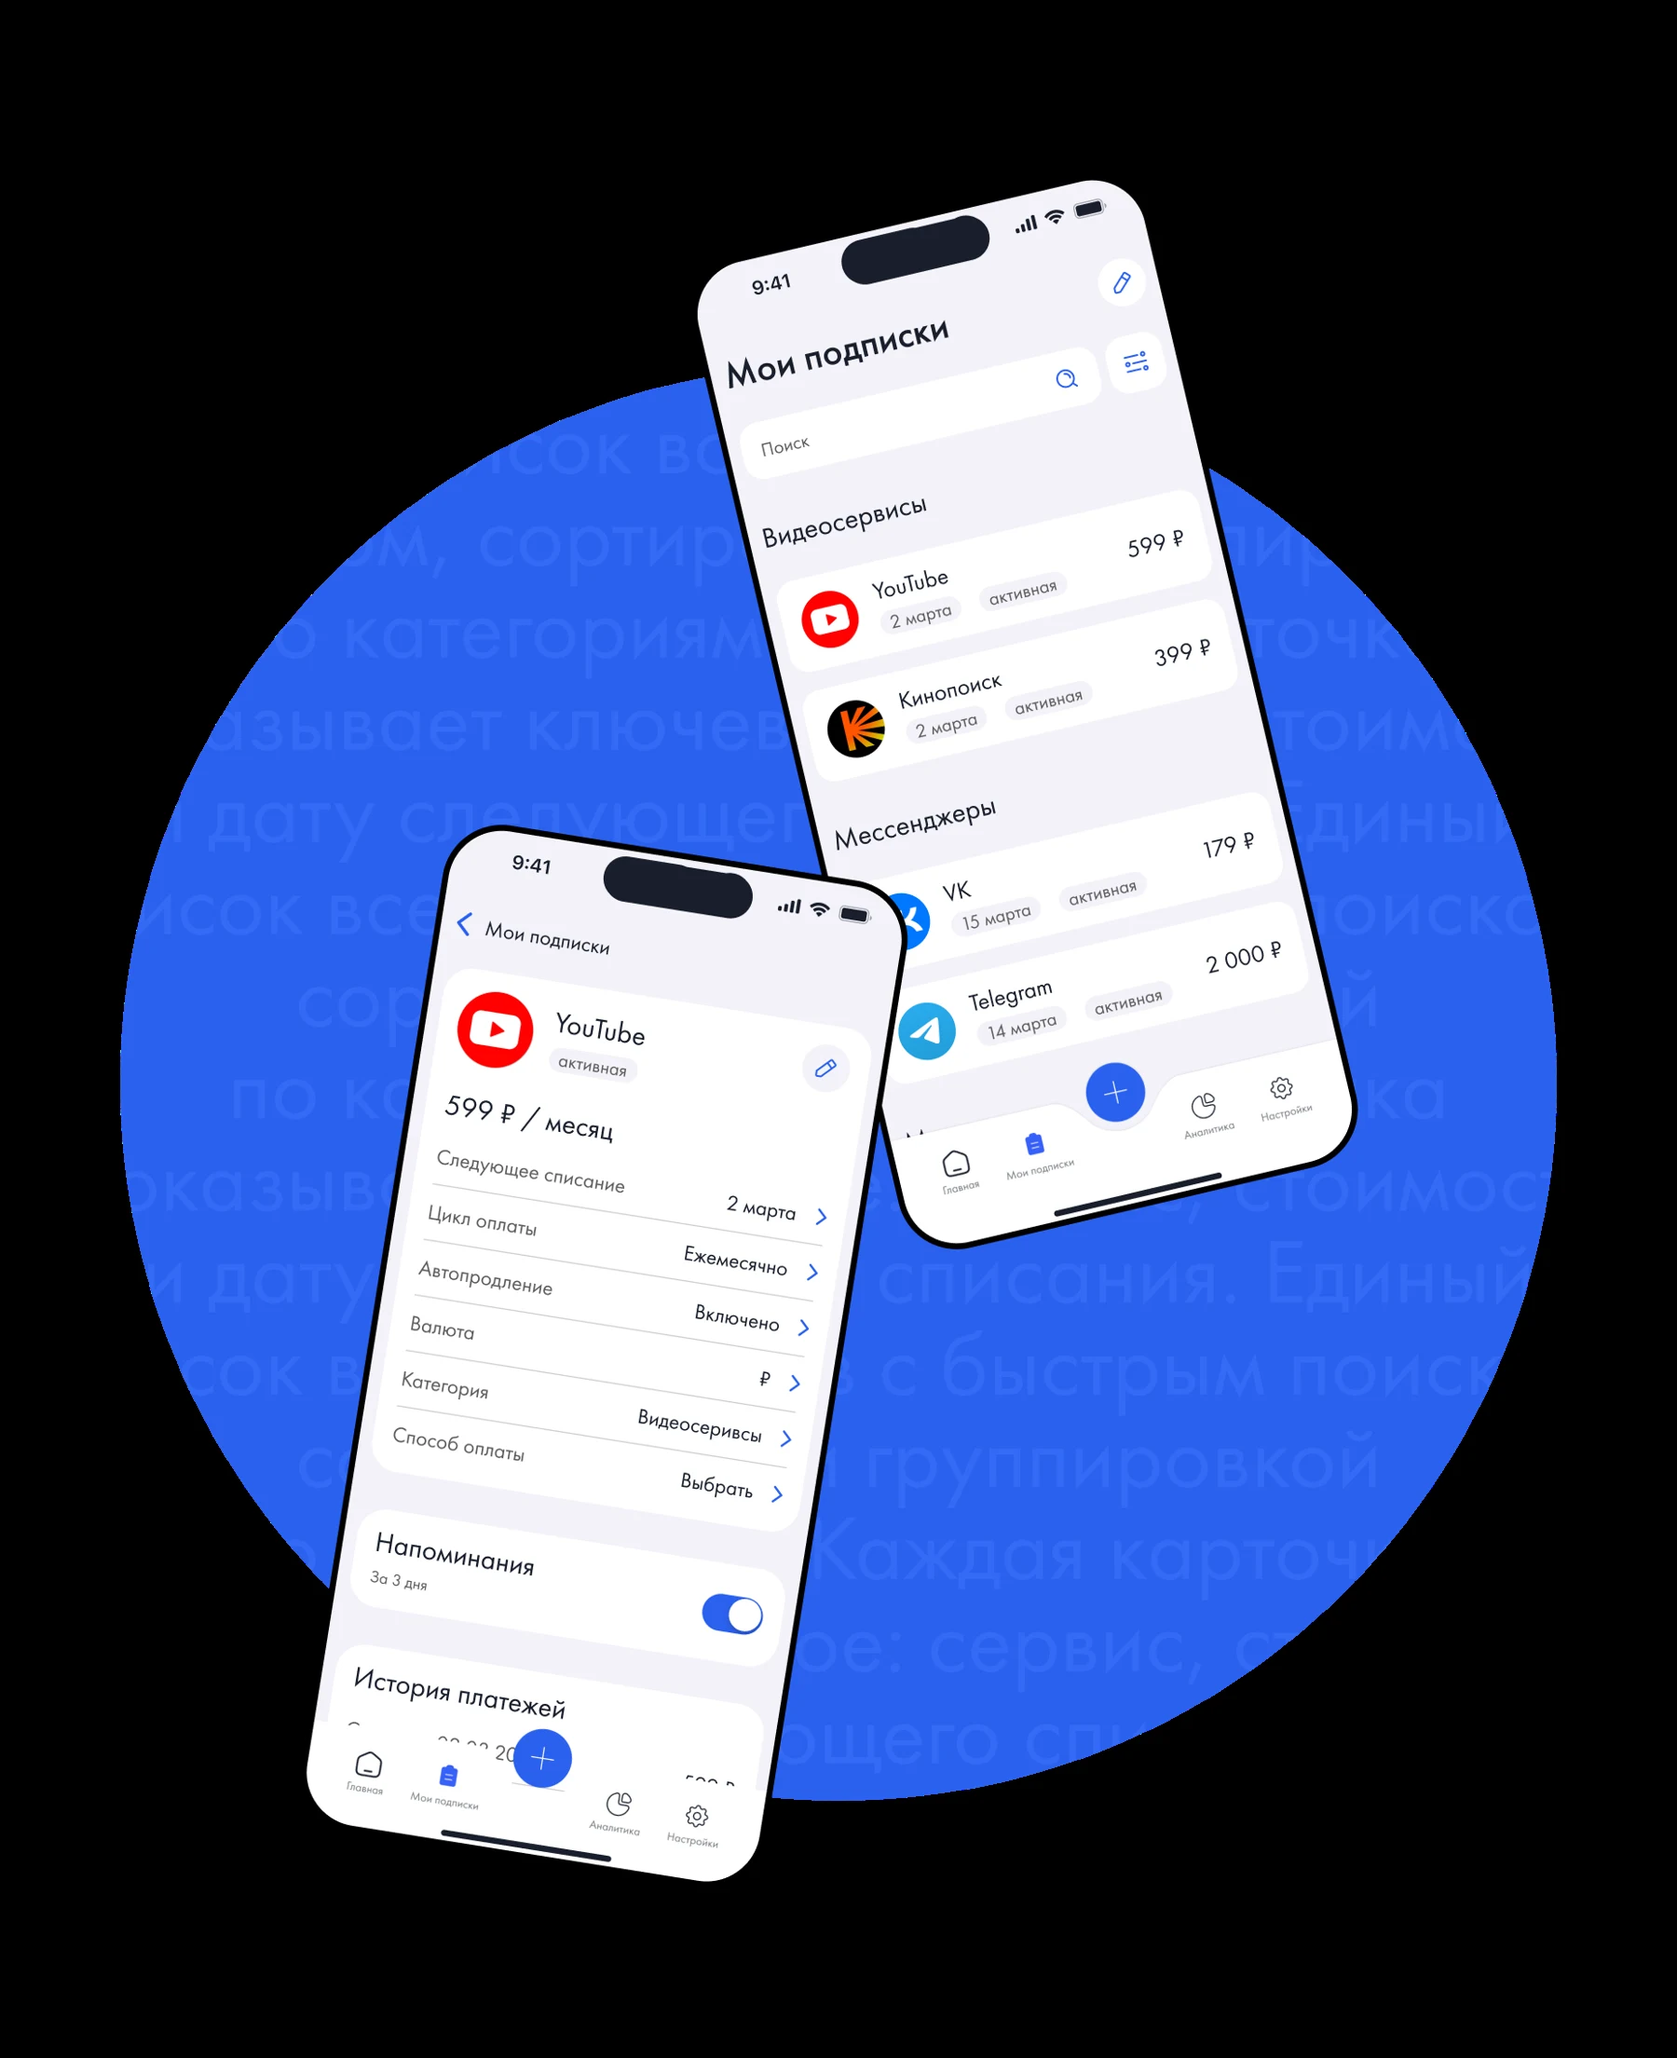
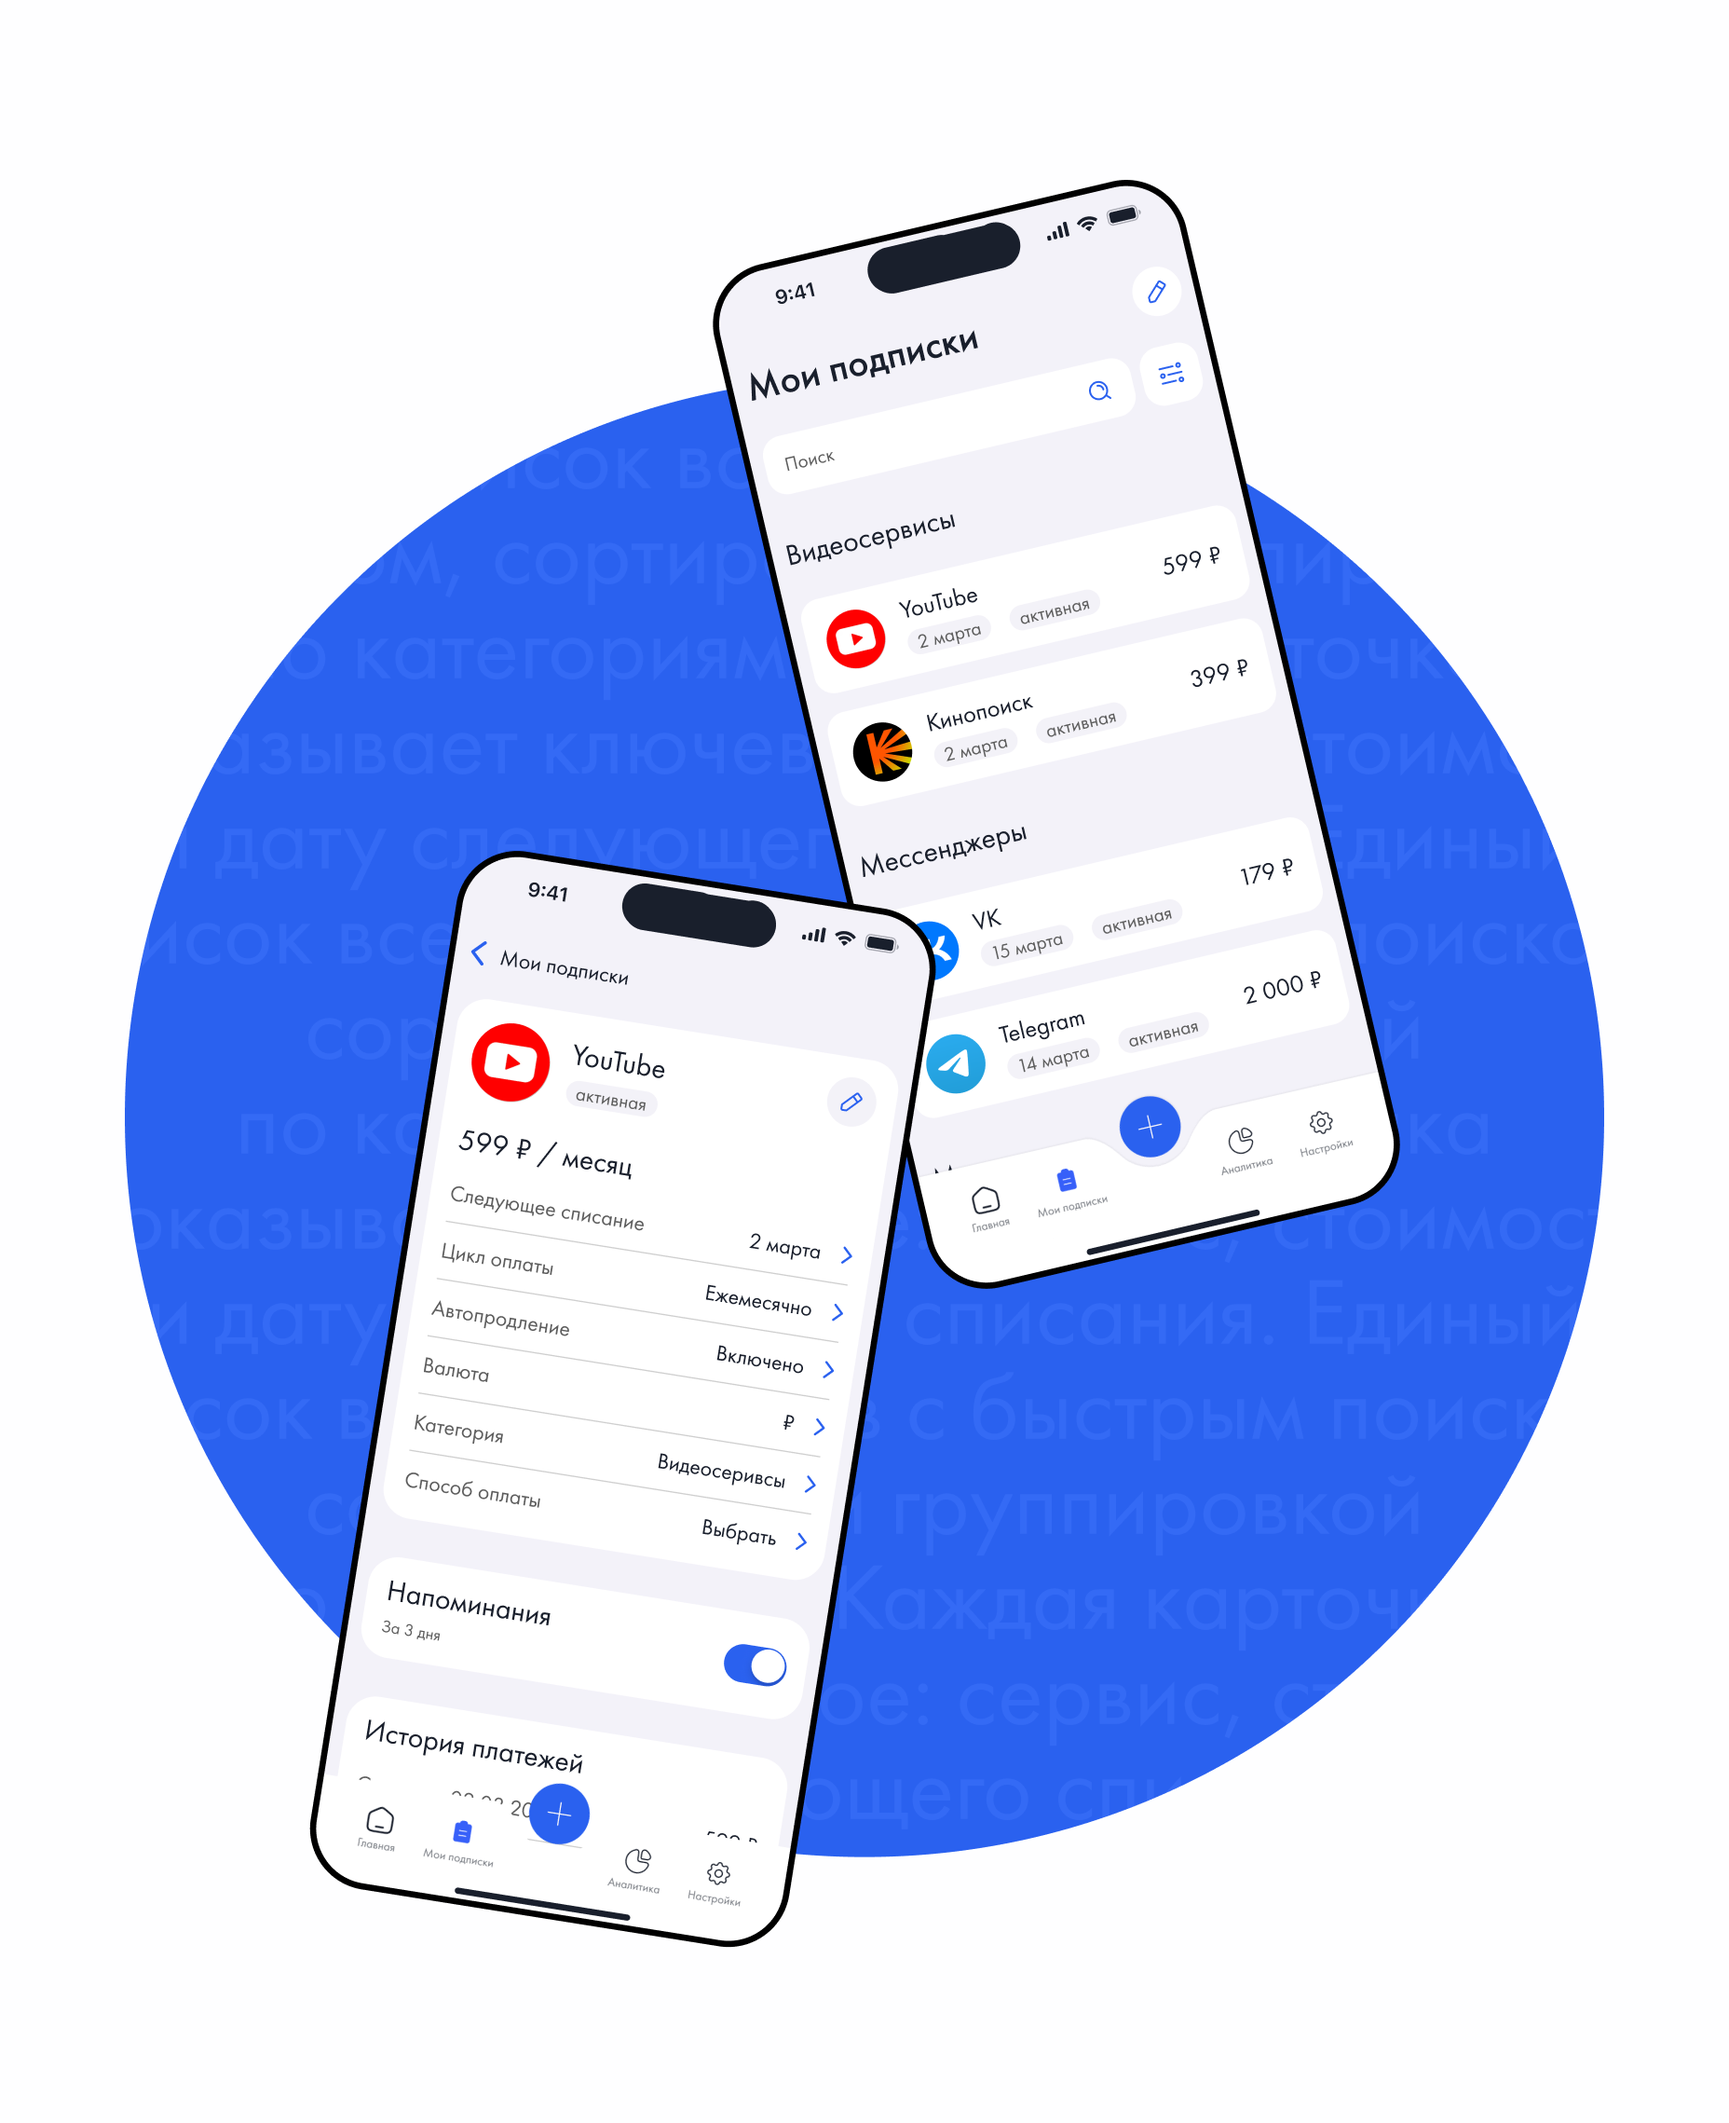
Replace PayPulse gallery artwork with white-background versions

diff --git a/cases/paypulse.html b/cases/paypulse.html
@@ -166,8 +166,8 @@
             >
               <img
                 loading="lazy"
-                height="2209"
-                width="1800"
+                height="2278"
+                width="1856"
                 alt="PayPulse — основные экраны приложения"
                 src="../assets/paypulse/main-screens.webp"
               /></button
@@ -192,8 +192,8 @@
             >
               <img
                 loading="lazy"
-                height="3717"
-                width="1800"
+                height="2203"
+                width="1860"
                 alt="PayPulse — экраны и состояния интерфейса"
                 src="../assets/paypulse/all-screens.webp"
               />
